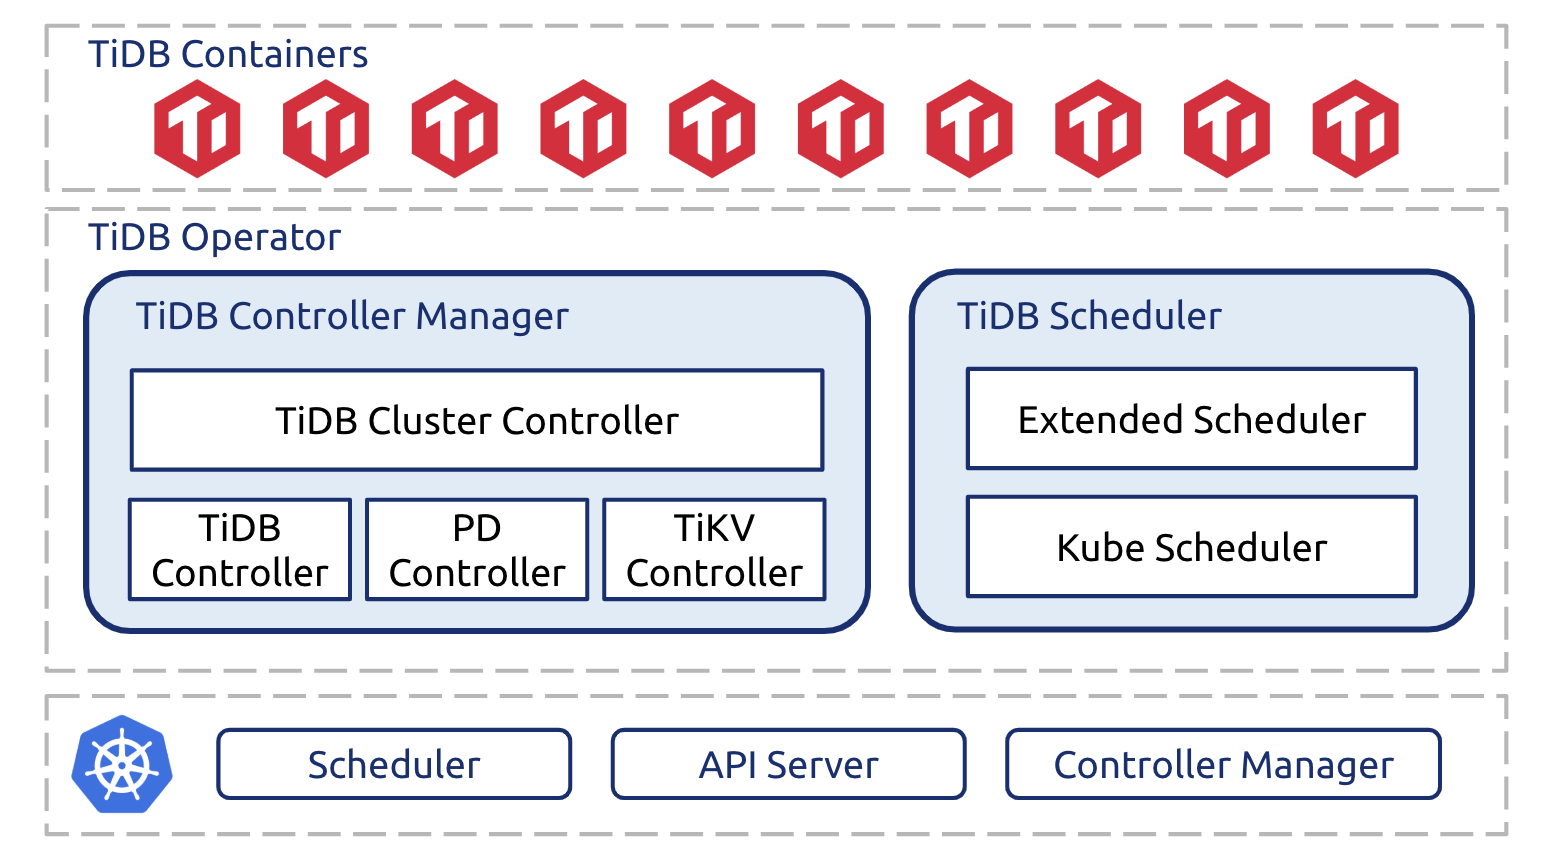
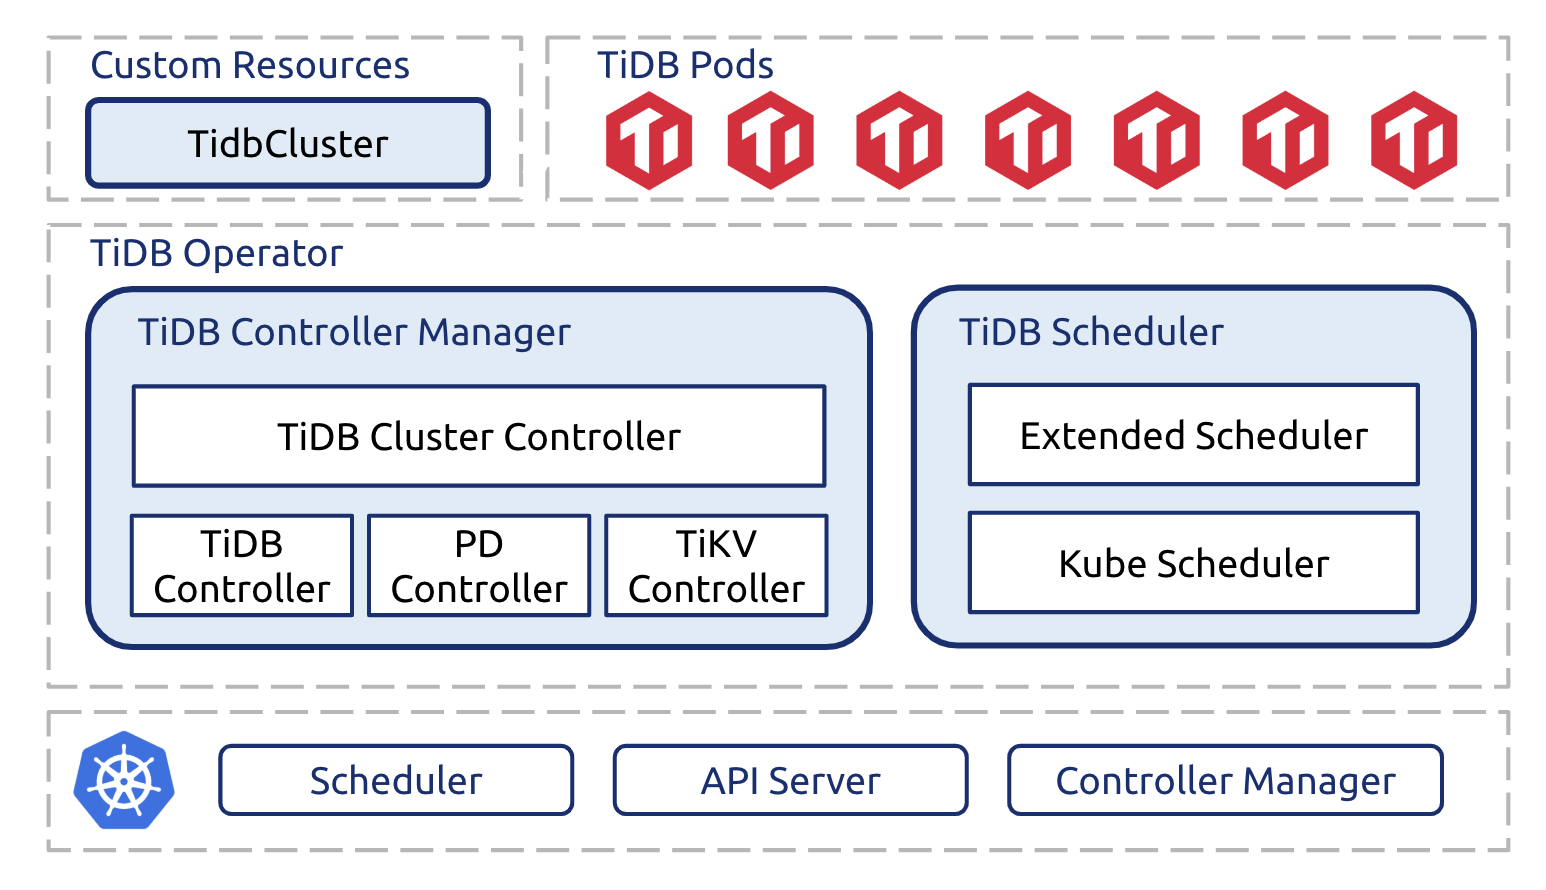
Refine architecture image

diff --git a/dev/reference/tidb-operator-overview.md b/dev/reference/tidb-operator-overview.md
@@ -15,8 +15,9 @@ TiDB Operator 包含以下组件：
 
 * `TidbCluster` 是使用 CRD（`CustomResourceDefinition`）定义的自定义资源，用于描述用户期望的 TiDB 集群 状态；
 * `tidb-controller-manager` 是一组 Kubernetes 上的自定义控制器。这些控制器会不断对比 `TidbCluster` 对象中记录的期望状态与 TiDB 集群的实际状态，并调整 Kubernetes 中的资源以驱动 TiDB 集群满足期望状态；
-* `tidb-scheduler` 是一个 Kubernetes 调度器扩展，它为 Kubernetes 调度器注入 TiBD 集群特有的调度逻辑；
-* `tkctl` 是 Kubernetes 上 TiDB 集群的命令行接口，用于运维集群和诊断集群问题。
+* `tidb-scheduler` 是一个 Kubernetes 调度器扩展，它为 Kubernetes 调度器注入 TiBD 集群特有的调度逻辑。
+
+此外，TiDB Operator 还为 Kubernetes 上的 TiDB 集群提供了命令行接口 `tkctl`，用于运维集群和诊断集群问题。
 
 ![TiDB Operator Control Flow](/media/tidb-operator-control-flow.png)
 
